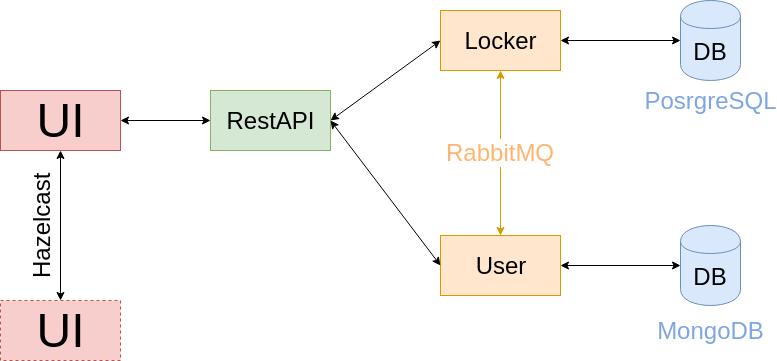
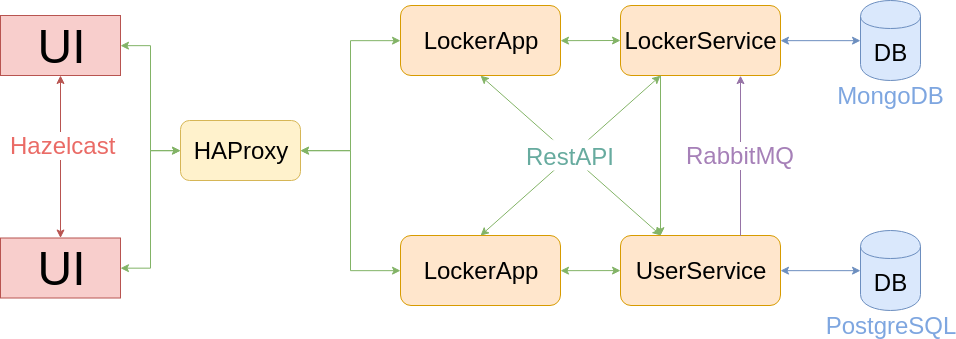
Close #58 Update diagram, README, launch scripts, gifs

diff --git a/README.md b/README.md
@@ -1,6 +1,9 @@
 # LokerApp
 
-![](https://github.com/AdoreIt/LockerApp/blob/master/doc/LockerApp.gif?raw=true)
+![](doc/LockerApp.gif)
+
+![](doc/LockerApp_user_service_run.gif)
+![](doc/LockerApp_locker_service_run.gif)
 
 - [LokerApp](#lokerapp)
   - [Basic architecture](#basic-architecture)
@@ -18,6 +21,7 @@
         - [Create Database](#create-database-1)
         - [Drop Database](#drop-database-1)
     - [RabbitQM Setup](#rabbitqm-setup)
+    - [Hazelcast](#hazelcast)
   - [Launching](#launching)
     - [If you have troubles with creating replica set, run](#if-you-have-troubles-with-creating-replica-set-run)
     - [Launching with Guake terminal](#launching-with-guake-terminal)
@@ -223,6 +227,12 @@ rabbitmqctl set_permissions -p / <user> ".*" ".*" ".*"
 
 (or set permissions through management website `xxx.xxx.xxx.xxx:15672`)
 
+### Hazelcast
+
+Download Hazelcast zip at https://hazelcast.org/download/
+
+Unzip to `LockerApp/locker_app`
+
 ## Launching
 
 Update `config/config.json` with
@@ -254,6 +264,12 @@ Launch **RabbitMQ cluster** (two nodes from different computers whose ip adresse
 rabbit01$ rabbitmq-server
 
 rabbit02$ rabbitmq-server
+```
+
+Launch **Hazelcast** on two computers:
+
+```bash
+./locker_app/hazelcast_locker_app/bin/stop.sh; ./locker_app/hazelcast_locker_app/bin/start.sh
 ```
 
 Launch **RabbitMQ receiver** for LockerService:
